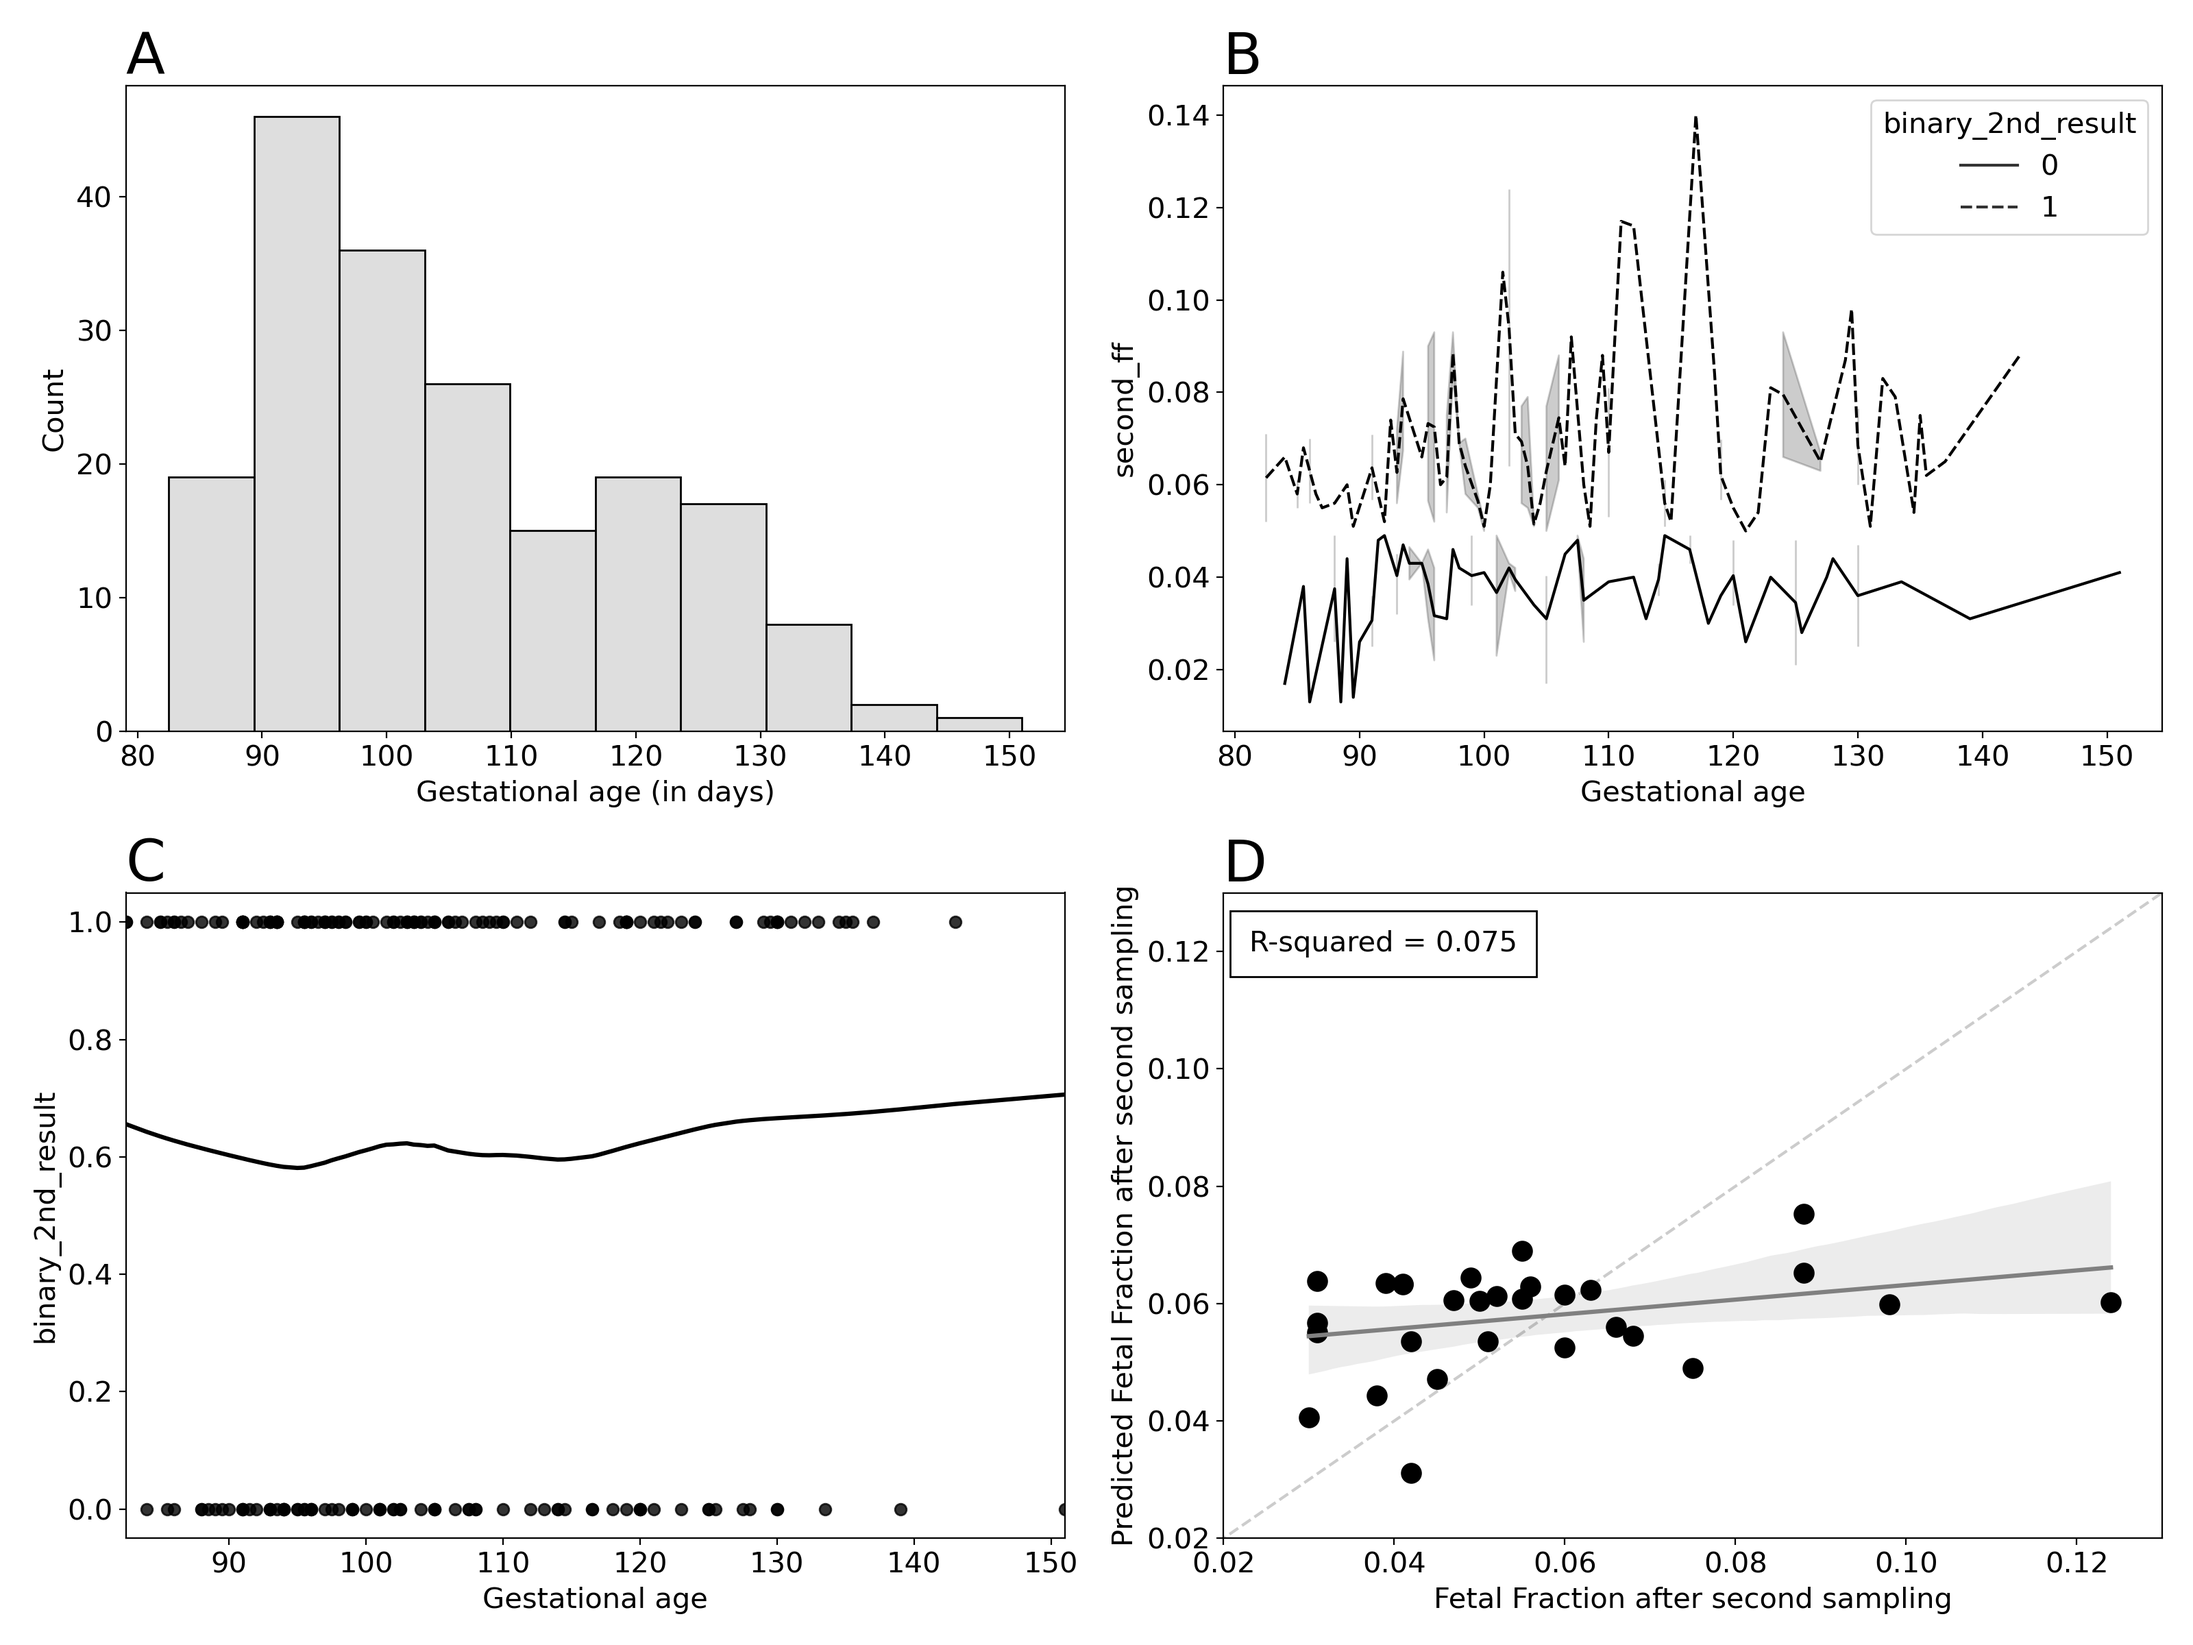
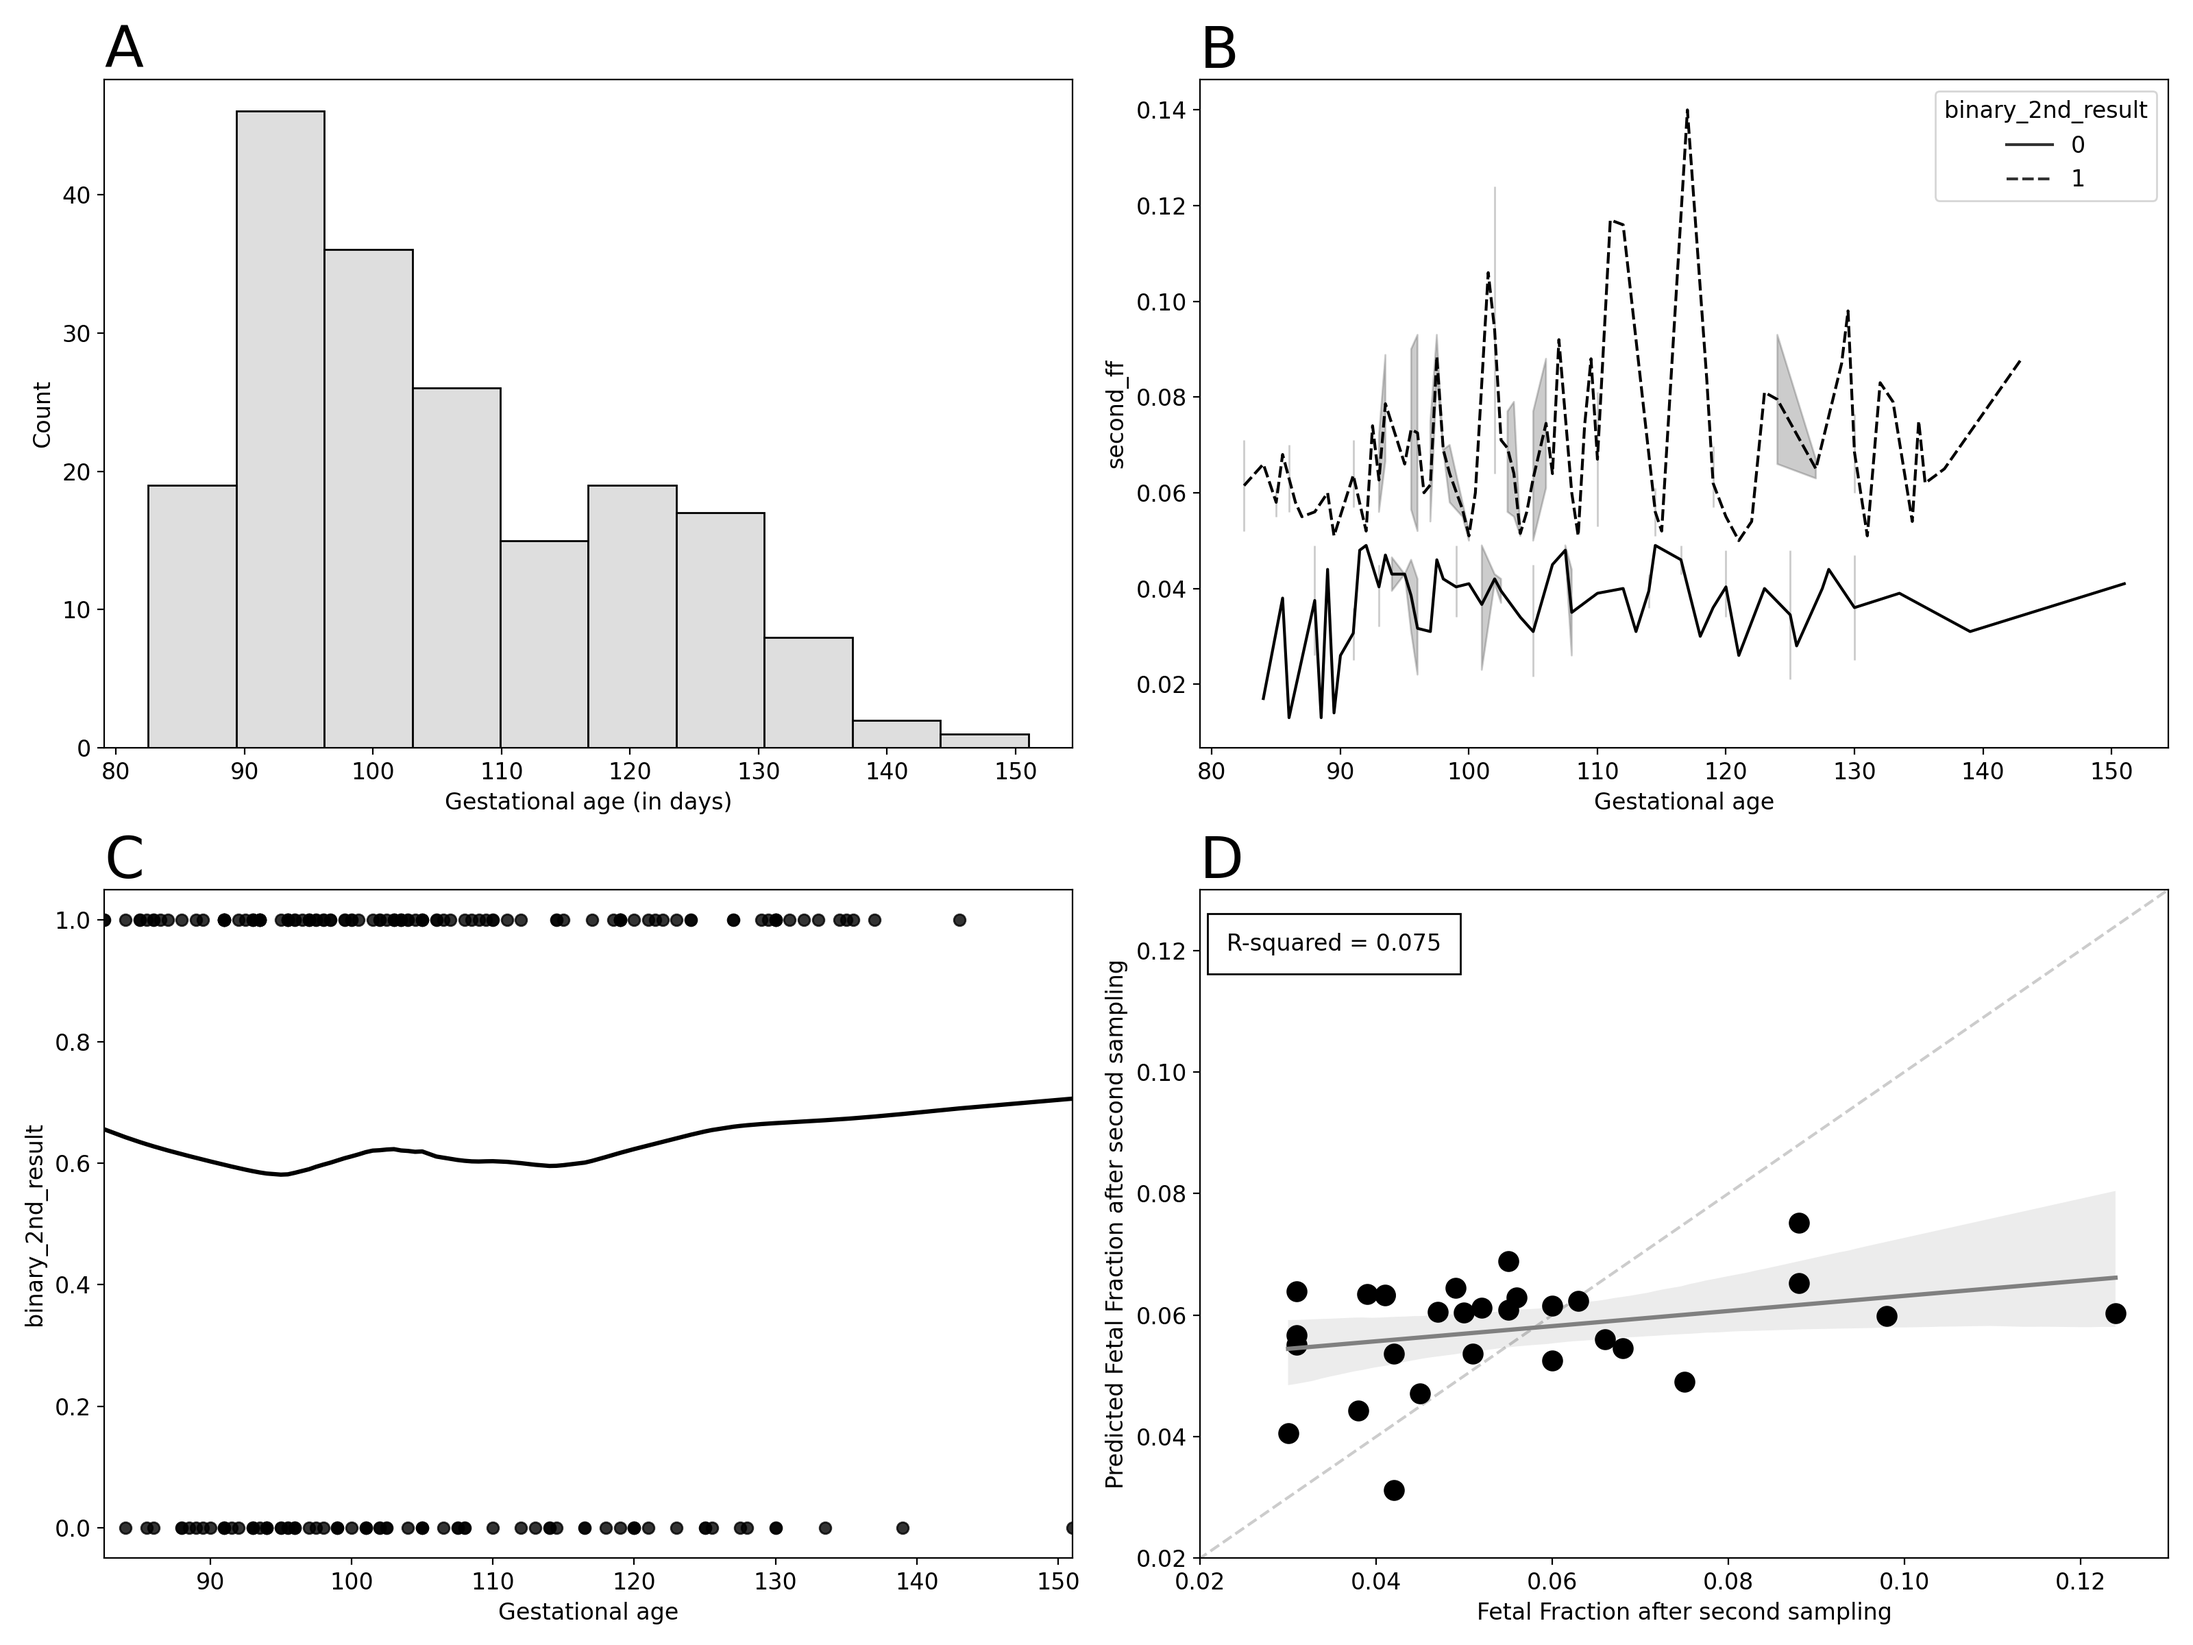
change figure font size

diff --git a/scripts/regression.py b/scripts/regression.py
@@ -32,7 +32,7 @@ from scripts.constants import ATTRIBUTES
 from matplotlib import rcParams
 
 
-rcParams.update({"font.size": 15})
+rcParams.update({"font.size": 12})
 
 # %%
 # train = pd.read_csv("data/train.tsv", sep='\t')
@@ -153,7 +153,7 @@ plt.savefig(snakemake.output.fourplots, dpi=200)
 # plt.savefig('plots/4plots.png', dpi=200)
 
 # %%
-fig, ax = plt.subplots(figsize=(9, 7))
+fig, ax = plt.subplots(figsize=(7, 6))
 
 t, v, m = trymodel(Ridge(), {"alpha": ALPHA}, train_X_s, y_train, val_X_s, y_val)
 t, te, m = trymodel(Ridge(), {"alpha": ALPHA}, train_X_s, y_train, test_X_s, y_test)
@@ -177,10 +177,10 @@ baseline_val = np.sqrt(mean_squared_error(y_val, baseline_model(len(y_val))))  #
 baseline_train = np.sqrt(mean_squared_error(y_train, baseline_model(len(y_train))))  # np.sqrt(np.mean((y_train - np.mean(y_train)) ** 2))
 baseline_test = np.sqrt(mean_squared_error(y_test, baseline_model(len(y_test))))
 
-plt.title('Ridge (Test Data)\
-          \nRMSE - Train: {:.3f}, Validation: {:.3f}, Test: {:.3f}\
-          \nBaseline RMSE - Train: {:.3f}, Validation: {:.3f}, Test: {:.3f}'\
-              .format(t, v, te, baseline_train, baseline_val, baseline_test))
+# plt.title('Ridge (Test Data)\
+#           \nRMSE - Train: {:.3f}, Validation: {:.3f}, Test: {:.3f}\
+#           \nBaseline RMSE - Train: {:.3f}, Validation: {:.3f}, Test: {:.3f}'\
+#               .format(t, v, te, baseline_train, baseline_val, baseline_test))
 # ax.set_title('Train RMSE: {:.3f}, Validation RMSE: {:.3f}'.format(t, v))
 
 ax.set_xlabel('Fetal Fraction after second sampling')
